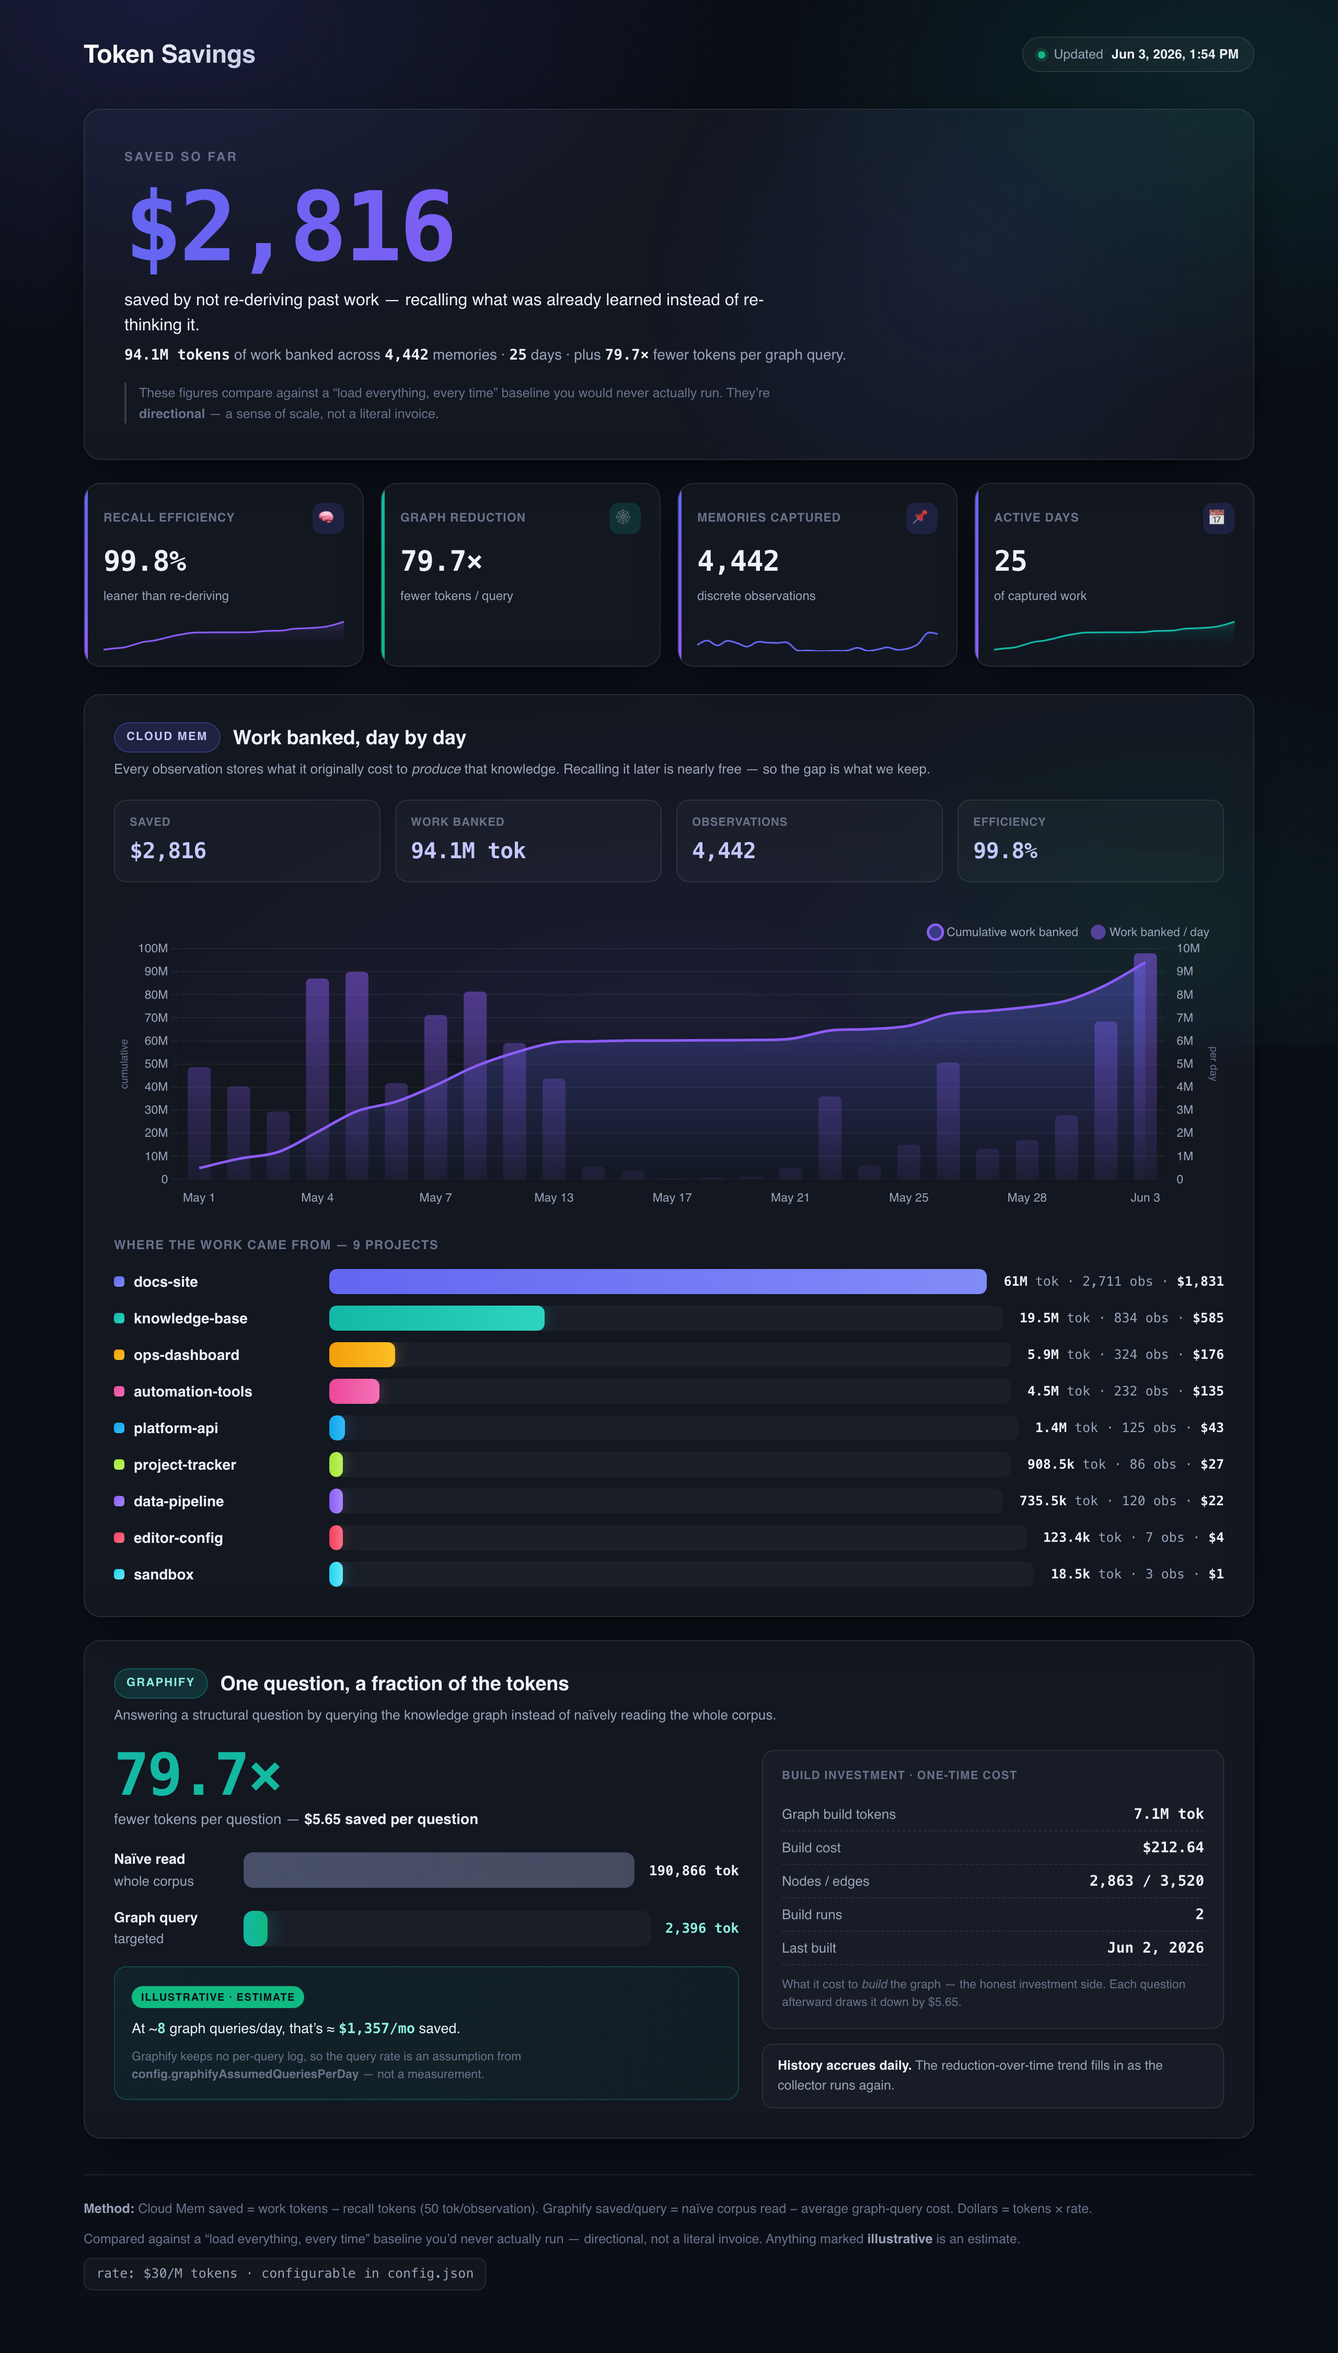
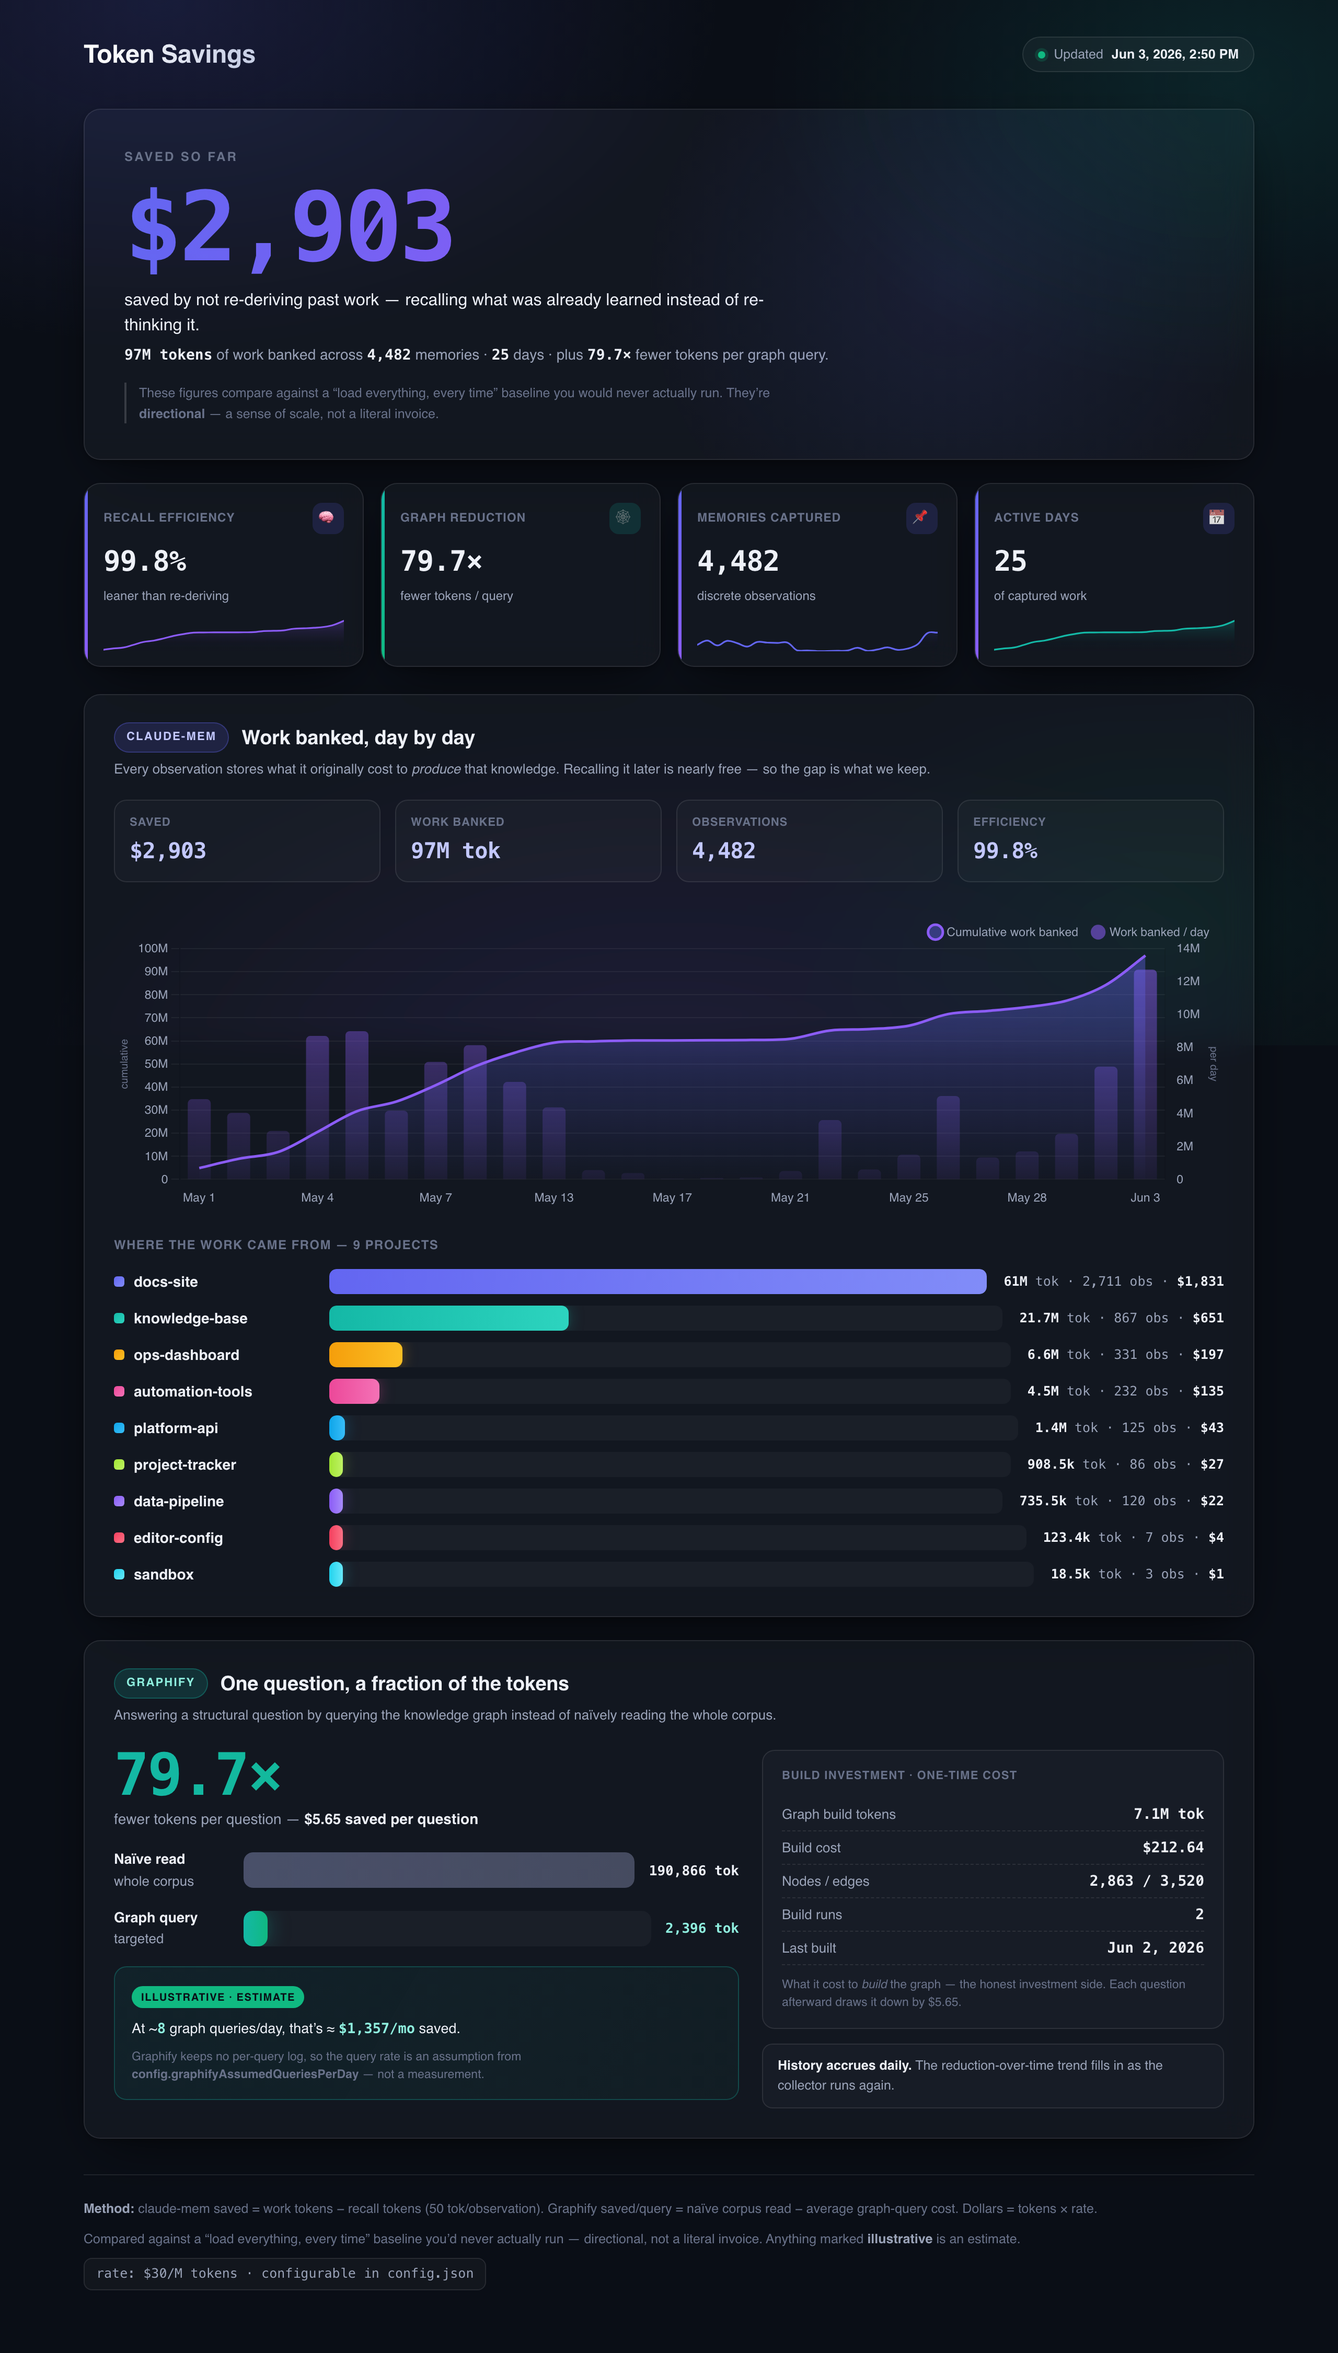
Rename the "Cloud Mem" label to its real name, claude-mem
"Cloud Mem" was a casual misnomer — the tool is claude-mem, and it's fully
local, so "Cloud" wrongly implied cloud storage. Rename the panel label, prose,
comments, and console messages across the dashboard, docs, installer, and skill;
collapse the now-redundant "(claude-mem)" intros; regenerate the README
screenshot. Internal cloudMem data keys are unchanged (collector↔page contract).

diff --git a/index.html b/index.html
@@ -6,7 +6,7 @@
 <title>Token Savings</title>
 <style>
   :root {
-    /* Cloud Mem — indigo / violet */
+    /* claude-mem — indigo / violet */
     --mem-1: #6366f1;
     --mem-2: #8b5cf6;
     --mem-glow: rgba(99, 102, 241, 0.55);
@@ -250,7 +250,7 @@
     }
 
     var cfg = S.config || {};
-    var mem = S.cloudMem || { notDetected: true, reason: "No Cloud Mem data." };
+    var mem = S.cloudMem || { notDetected: true, reason: "No claude-mem data." };
     var gfx = S.graphify || { notDetected: true, reason: "No Graphify data." };
     var memOk = mem && !mem.notDetected;
     var gfxOk = gfx && !gfx.notDetected;
@@ -357,9 +357,9 @@
     if (gfxOk && !memOk) cards.push(statCard("accent-gfx", "gfx", "🧩", "Graph size", commas(gfx.nodes) + " / " + commas(gfx.edges), "nodes / edges"));
     html += '<section class="stat-row">' + cards.join("") + '</section>';
 
-    // -------- CLOUD MEM PANEL --------
+    // -------- CLAUDE-MEM PANEL --------
     html += '<section class="panel card">' +
-      '<div class="panel-head"><span class="panel-badge mem">Cloud Mem</span><h2>Work banked, day by day</h2></div>';
+      '<div class="panel-head"><span class="panel-badge mem">claude-mem</span><h2>Work banked, day by day</h2></div>';
     if (memOk) {
       var byProj = (mem.byProject || []).slice().sort(function (a, b) { return b.workTokens - a.workTokens; });
       var maxProj = byProj.reduce(function (m, p) { return Math.max(m, p.workTokens); }, 1);
@@ -392,7 +392,7 @@
           (hi ? ' · ' + commas(hi) + ' pinned' : '') + '</div>' +
         '<div class="proj-list">' + projRows + '</div>';
     } else {
-      html += notDetect("mem", "🧠", "Cloud Mem not detected", mem.reason,
+      html += notDetect("mem", "🧠", "claude-mem not detected", mem.reason,
         'Once <code>claude-mem</code> is installed and has captured a few sessions, this panel fills with your banked-work total, a daily trend, and a per-project breakdown.');
     }
     html += '</section>';
@@ -449,7 +449,7 @@
 
     // -------- FOOTER --------
     var methodBits = [];
-    if (memOk) methodBits.push('Cloud Mem saved = work tokens − recall tokens (' + commas(mem.recallTokensPerObservation) + ' tok/observation).');
+    if (memOk) methodBits.push('claude-mem saved = work tokens − recall tokens (' + commas(mem.recallTokensPerObservation) + ' tok/observation).');
     if (gfxOk) methodBits.push('Graphify saved/query = naïve corpus read − average graph-query cost.');
     methodBits.push('Dollars = tokens × rate.');
     html +=

diff --git a/docs/HOW-IT-WORKS.md b/docs/HOW-IT-WORKS.md
@@ -9,7 +9,7 @@ If you just want to install it, see [INSTALL.md](INSTALL.md). This doc is about 
 ## Contents
 
 - [The one honesty caveat (read this first)](#the-one-honesty-caveat-read-this-first)
-- [Cloud Mem: where the numbers come from](#cloud-mem-where-the-numbers-come-from)
+- [claude-mem: where the numbers come from](#cloud-mem-where-the-numbers-come-from)
 - [Graphify: where the numbers come from](#graphify-where-the-numbers-come-from)
 - [The formulas, exactly](#the-formulas-exactly)
 - [Every assumption, stated plainly](#every-assumption-stated-plainly)
@@ -27,14 +27,14 @@ Every "saved" figure is measured against a **"load everything, every time" basel
 
 Two specific guardrails keep this honest:
 
-1. **Cloud Mem efficiency is capped at 99.9%.** Even if the math rounds to a perfect 100% saving, the dashboard never claims it. Recall is cheap, but it's never free, so a fake 100% would be a lie. The cap makes that explicit.
+1. **claude-mem efficiency is capped at 99.9%.** Even if the math rounds to a perfect 100% saving, the dashboard never claims it. Recall is cheap, but it's never free, so a fake 100% would be a lie. The cap makes that explicit.
 2. **Any Graphify monthly projection is labelled "illustrative."** Graphify keeps no per-query log, so it cannot know how many graph queries you actually ran. Any "saved this month" number assumes a queries-per-day figure (default 8) and says so on its face.
 
 Keep that framing in mind for everything below. The inputs are real; the baseline is deliberately generous; the page tells you so.
 
 ---
 
-## Cloud Mem: where the numbers come from
+## claude-mem: where the numbers come from
 
 [claude-mem](https://github.com/thedotmack/claude-mem) stores **observations** — discrete pieces of knowledge it captured while you worked — in a local SQLite database (default `~/.claude-mem/claude-mem.db`).
 
@@ -85,7 +85,7 @@ Building the graph isn't free — it costs tokens once. The collector reads `cos
 
 So the graph's savings are always shown **honestly against their build cost** — a real per-query win, minus a real one-time investment.
 
-If no graph is found, or the `graphify` CLI isn't on PATH, or the benchmark fails, the panel reports `notDetected` and the Cloud Mem panel still renders.
+If no graph is found, or the `graphify` CLI isn't on PATH, or the benchmark fails, the panel reports `notDetected` and the claude-mem panel still renders.
 
 ---
 
@@ -93,7 +93,7 @@ If no graph is found, or the `graphify` CLI isn't on PATH, or the benchmark fail
 
 These are the literal computations in `collect-savings.mjs`.
 
-### Cloud Mem
+### claude-mem
 
 ```
 recallTokens  = observations × recallTokensPerObservation
@@ -136,7 +136,7 @@ One rate, one rule, applied identically to both tools. Change the rate in `confi
 | **`recallTokensPerObservation`** | `50` | A conservative flat model for what it costs to recall one memory. Recall isn't literally free, so we subtract this for every observation rather than pretend it's zero. |
 | **`graphifyAssumedQueriesPerDay`** | `8` | **Illustrative only.** Graphify keeps no per-query log, so any monthly-saved projection assumes this many graph queries per day. Clearly labelled as an estimate on the page. |
 | **The "load everything every time" baseline** | — | The reference world these savings are measured against. Directional, not a literal bill. See the [caveat](#the-one-honesty-caveat-read-this-first). |
-| **99.9% efficiency cap** | — | Cloud Mem efficiency is hard-capped at 99.9% so the dashboard never shows a fake, dishonest 100%. |
+| **99.9% efficiency cap** | — | claude-mem efficiency is hard-capped at 99.9% so the dashboard never shows a fake, dishonest 100%. |
 
 Every one of these is a config key (except the baseline and the cap, which are deliberately fixed). Tune them to match your reality — but tune them *honestly*.
 

diff --git a/docs/INSTALL.md b/docs/INSTALL.md
@@ -2,7 +2,7 @@
 
 This is the full setup guide for **Token Savings** — a self-contained dark dashboard that shows how many tokens (and dollars) two Claude Code context tools save you:
 
-- **Cloud Mem** ([claude-mem](https://github.com/thedotmack/claude-mem)) — a memory system. Every observation it stores remembers how many tokens it cost to *originally* produce that knowledge. Recalling it later is nearly free, so the difference is your saving.
+- **[claude-mem](https://github.com/thedotmack/claude-mem)** — a memory system. Every observation it stores remembers how many tokens it cost to *originally* produce that knowledge. Recalling it later is nearly free, so the difference is your saving.
 - **Graphify** — a knowledge graph over a repo. Answering a structural question through the graph costs a fraction of reading the whole codebase (e.g. ~79.7× fewer tokens).
 
 The dashboard **auto-detects** both tools. If you only have one installed, that panel renders and the other shows a friendly "not detected" state. **No demo or fake data is ever shown** — if there's nothing real to display, it says so.
@@ -30,7 +30,7 @@ You need:
 | Requirement | Why | Check |
 |---|---|---|
 | **Node.js 18+** | Runs the collector (`collect-savings.mjs`). Uses only built-in modules — **zero `npm install`**. | `node --version` |
-| **`sqlite3` CLI** | The collector reads the claude-mem database by shelling out to `sqlite3`. Only needed for the Cloud Mem panel. | `sqlite3 --version` |
+| **`sqlite3` CLI** | The collector reads the claude-mem database by shelling out to `sqlite3`. Only needed for the claude-mem panel. | `sqlite3 --version` |
 | **At least one of:** [claude-mem](https://github.com/thedotmack/claude-mem) **or** [graphify](https://www.npmjs.com/package/@graphify/cli) | These are what you're measuring. With neither installed there's nothing to show. | `which graphify` / claude-mem DB exists |
 
 You do **not** need a web server, a build step, or any npm packages. Chart.js is vendored in `vendor/chart.umd.min.js`.
@@ -90,7 +90,7 @@ Now [open `index.html`](#viewing-the-dashboard).
 
 Everything lives in **`config.json`** (copied from `config.example.json`). The example file has inline `_notes` for every key. The ones that matter for *finding your data*:
 
-### Cloud Mem (claude-mem)
+### claude-mem
 
 ```jsonc
 {
@@ -266,13 +266,13 @@ node collect-savings.mjs
 
 Then reload the page. If you set up the [SessionStart hook](#auto-refresh-sessionstart-hook), this also happens automatically next time you open Claude in the repo.
 
-### "Cloud Mem not detected"
+### "claude-mem not detected"
 
 The collector couldn't find or read your claude-mem database. Check, in order:
 
 1. **Is claude-mem installed and has it captured anything?** It needs at least one session with observations. The `observations` table must exist and be non-empty.
 2. **Is `claudeMemDbPath` correct?** The default is `~/.claude-mem/claude-mem.db`. If yours lives elsewhere, set the right path in `config.json`.
-3. **Is `sqlite3` installed?** See the next item — the Cloud Mem panel needs it.
+3. **Is `sqlite3` installed?** See the next item — the claude-mem panel needs it.
 4. **Scope too narrow?** If `scope.mode` is `"projects"`, make sure the project names in `scope.projects` actually exist in the DB. An empty scope returns "no observations for the configured project scope."
 
 Re-run `node collect-savings.mjs` after fixing.

diff --git a/README.md b/README.md
@@ -12,7 +12,7 @@ A self-contained, dark-mode dashboard that turns two Claude Code context tools i
 
 Two panels, each from a real tool on your machine:
 
-- **Cloud Mem** (`claude-mem`) — your memory system. Every observation it stores carries the number of tokens it cost to *originally* produce that knowledge; sum those and you get **work banked**. Recalling it later is nearly free, so the saving is `work − recall`. The panel shows banked work, a **daily trend**, and a **per-project breakdown**.
+- **claude-mem** — your memory system. Every observation it stores carries the number of tokens it cost to *originally* produce that knowledge; sum those and you get **work banked**. Recalling it later is nearly free, so the saving is `work − recall`. The panel shows banked work, a **daily trend**, and a **per-project breakdown**.
 - **Graphify** — a knowledge graph over a repo. Answering a structural question through the graph costs a fraction of reading the whole codebase (often a **~79.7× reduction**). The panel shows **per-query reduction** plus a **build ledger** (the one-time token cost of building the graph).
 
 Up top: the **headline dollars saved**, summed across both tools.
@@ -85,7 +85,7 @@ Full annotated reference with every key explained: **[`config.example.json`](con
 
 ## How the numbers work
 
-- **Cloud Mem:** `saved_tokens = Σ discovery_tokens − (observations × recallTokensPerObservation)`, then `$ = saved_tokens / 1e6 × dollarsPerMillionTokens`. Efficiency is capped at **99.9%** — we never show a fake 100%.
+- **claude-mem:** `saved_tokens = Σ discovery_tokens − (observations × recallTokensPerObservation)`, then `$ = saved_tokens / 1e6 × dollarsPerMillionTokens`. Efficiency is capped at **99.9%** — we never show a fake 100%.
 - **Graphify:** `saved_per_query = naïve_corpus_tokens − avg_query_tokens`; the one-time build cost comes from `graphify-out/cost.json`. Any monthly projection is labelled **"illustrative"** because Graphify keeps no per-query log.
 
 Both panels compare against a baseline you'd never really run, so treat the totals as directional. Full walkthrough: **[`docs/HOW-IT-WORKS.md`](docs/HOW-IT-WORKS.md)**.

diff --git a/skill/SKILL.md b/skill/SKILL.md
@@ -8,7 +8,7 @@ description: Use when the user wants to regenerate and open the Token Savings da
 Refresh and open the **Token Savings** dashboard: a self-contained dark page that
 shows how many tokens and dollars two Claude Code context tools save —
 
-- **claude-mem** (Cloud Mem): a memory system. Each observation stores the tokens
+- **claude-mem**: a memory system. Each observation stores the tokens
   it cost to *originally* produce that knowledge; summed = "work captured".
   Recalling it later is nearly free, so **saved = work − recall**.
 - **Graphify**: a knowledge graph over a repo. Answering a structural question via
@@ -50,7 +50,7 @@ already on the machine — no npm install, no network, no fetch. Node 18+ requir
 4. **Summarize the headline numbers** by reading `data/savings.json` and reporting
    back to the user, in one or two lines:
    - **Combined:** `combined.savedDollars` (saved $) and `combined.savedTokens`.
-   - **Cloud Mem:** `cloudMem.observations`, `cloudMem.workTokens` (work captured),
+   - **claude-mem:** `cloudMem.observations`, `cloudMem.workTokens` (work captured),
      `cloudMem.savedDollars`, `cloudMem.efficiencyPct` — or its `notDetected`
      reason if the panel is empty.
    - **Graphify:** `graphify.reductionFactor` (e.g. `79.7x/query`) and
@@ -60,7 +60,7 @@ already on the machine — no npm install, no network, no fetch. Node 18+ requir
 
 - All figures are framed against a "load everything, every time" baseline you'd
   never actually run — directional, not an invoice.
-- Cloud Mem efficiency is capped at 99.9% (never a fake 100%).
+- claude-mem efficiency is capped at 99.9% (never a fake 100%).
 - Any Graphify monthly projection is **illustrative** — Graphify has no per-query
   log, so usage volume is assumed (`graphifyAssumedQueriesPerDay`).
 

diff --git a/CONTRIBUTING.md b/CONTRIBUTING.md
@@ -49,7 +49,7 @@ It must report **0 overlaps and 0 clipping**. If it doesn't, the change isn't re
 This dashboard exists to give people a real, defensible read on what these tools save — so honesty is a feature, not a nicety:
 
 - **No fabricated or demo data, ever.** If we can't measure it, we don't show a number.
-- **Label estimates as estimates.** All figures are framed against a "load everything, every time" baseline you'd never actually run — directional, not an invoice. Cloud Mem efficiency is capped at 99.9% (never a fake 100%), and any Graphify monthly projection is labelled "illustrative" because Graphify keeps no per-query log.
+- **Label estimates as estimates.** All figures are framed against a "load everything, every time" baseline you'd never actually run — directional, not an invoice. claude-mem efficiency is capped at 99.9% (never a fake 100%), and any Graphify monthly projection is labelled "illustrative" because Graphify keeps no per-query log.
 
 If a change would make a number look better than the underlying data supports, it doesn't belong here. When in doubt, undercount and say so.
 
